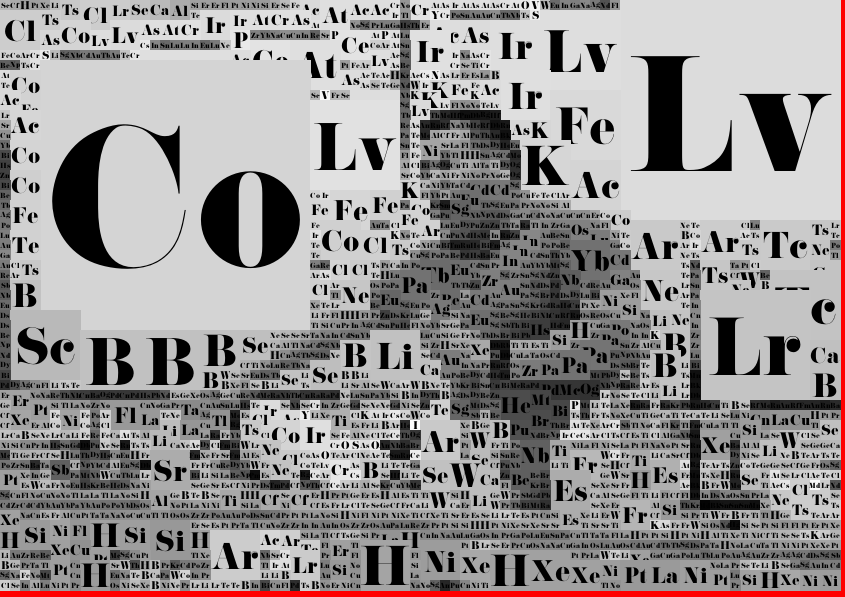
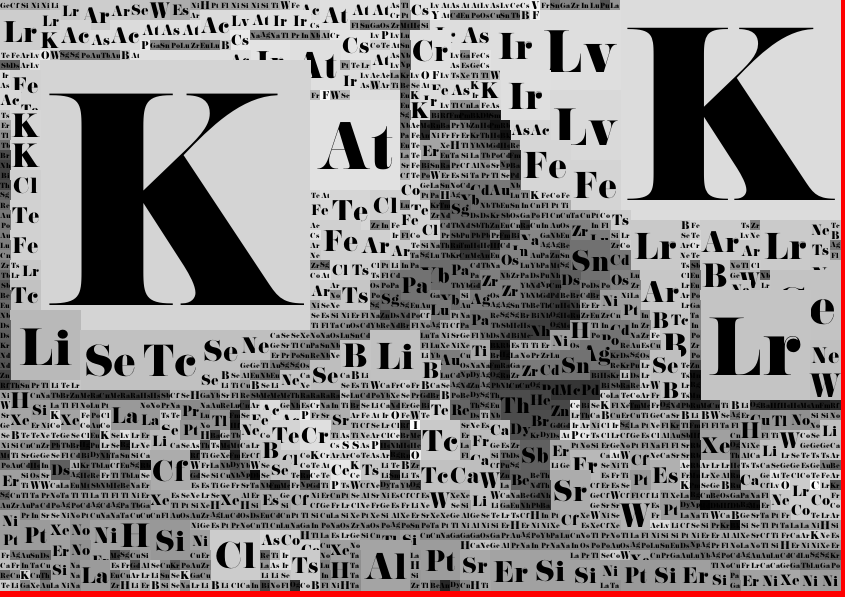
Brute force boxing 2
much better!

Changed region(s): [[0.0, 0.0, 1.0, 0.995], [0.9231, 0.4824, 1.0, 0.5427]]

diff --git a/BoxingBrute2.py b/BoxingBrute2.py
@@ -1,0 +1,182 @@
+from os import path
+import os
+from PIL import Image, ImageDraw,ImageFont
+from random import randint,choice
+
+# ====================================================================================================================================================
+# Define Shits
+
+def current_folder(file_name):
+    d = path.dirname(__file__) if "__file__" in locals() else os.getcwd()
+    return path.join(d, file_name)
+
+with open(current_folder(r'txt\Element_sorted.txt'),"r") as f:
+    Element=f.read().split(',')
+
+def scale(l,v):
+    alter=choice([-2,-1,0,0,1,2])
+    c=len(l)-max(0,min(int((v/255)*len(l))+alter,len(l)))-1
+    return l[c]
+
+class txt():
+    def __init__(self , word:str  , font_path:str , rect:tuple , fill:tuple) :
+        font_size_ref={1:1,2:1.5}
+        self.text=word
+        self.font_path=font_path
+        self.x=None
+        self.y=None
+        self.rect=rect
+        self.font_size=(rect[2]-rect[0])/font_size_ref[len(word)]
+        self.fill=fill
+    def draw(self,scale:int , canvas:ImageDraw, canvas_img:Image , fill:tuple=(-1,-1,-1) , bg:bool=False,rotate:bool=False):
+        #scale
+        font = ImageFont.truetype(self.font_path,self.font_size*ENLARGE)
+        bbox= font.getbbox(self.text)  # Size of text w/font if rendered.
+        txt_width ,txt_height = bbox[2]-bbox[0], bbox[3]-bbox[1]
+        txt_l,txt_u=((scale*(self.rect[0]+self.rect[2])//2)-txt_width//2 , (scale*(self.rect[1]+self.rect[3])//2) - txt_height//2)
+        if(fill[0]==-1): fill=self.fill
+        rect=tuple(map(lambda x:x*scale,self.rect))
+        if(bg):canvas.rectangle(rect,fill=self.fill)
+        canvas.text((txt_l,txt_u), self.text, fill=self.fill,font=font,align="centre")
+
+        if(rotate):
+            rotation=choice([270,0,0,90])
+            tmp = canvas_img.crop (rect)
+            tmp = tmp.rotate (rotation, expand = 1)
+            canvas_img.paste (tmp, (rect[0],rect[1]))
+
+
+# ====================================================================================================================================================
+#Load Shits
+
+img=Image.open(current_folder(r"style\Fin.jpg"))
+imgl=img.convert("L")
+w,h=imgl.size
+
+# ====================================================================================================================================================
+# Here onward, First round of Boxxing(big boxes)
+
+
+pixel_flag=[[True for x in range(w)] for y in range(h)]
+
+ENLARGE=5
+TXT=[]
+
+print(h,w)
+STEP1=10
+LAGRER_FACTOR=0.2
+THRESHOLD1=20
+
+# need to double the scale of canvas !
+for y in range(h):
+    # print("row",y)
+    for x in range(w):
+        if( pixel_flag[y][x]):
+            # overlap problem
+            # The starting block was not flagged, it eats into other boxes
+            mean=imgl.getpixel((x,y))
+            pc=STEP1# pixel count
+            # prevh,prevw,prevd=mean,mean,mean
+            while(y+pc<h and x+pc<w):
+                    pixh=imgl.getpixel((x+pc,y))
+                    pixw=imgl.getpixel((x,y+pc))
+                    pixd=imgl.getpixel((x+pc,y+pc))
+                    if(not pixel_flag[y+pc][x+pc] or not pixel_flag[y][x+pc] or not pixel_flag[y+pc][x]): break
+                    if( abs(pixh-mean)+abs(pixw-mean)+abs(pixd-mean)>=THRESHOLD1+(pc*LAGRER_FACTOR) ):
+                        break
+                    else:
+                        # mean+=pixh+pixw+pixd
+                        pc+=STEP1
+            if(y+pc>=h or x+pc>=w): pc-=STEP1
+            RGBmean=[0,0,0]
+            for a in range(pc):
+                for b in range(pc):
+                    pixel_flag[y+a][x+b]=False
+                    r,g,b=img.getpixel((x+b,y+a))
+                    RGBmean[0]+=r
+                    RGBmean[1]+=g
+                    RGBmean[2]+=b
+
+            if(pc!=0):
+                res=scale(Element,mean)
+                TXT.append(txt(
+                    res,
+                    current_folder(r"txt\Pistilli-Roman.otf"),
+                    (x,y,x+pc,y+pc),
+                    tuple(map(lambda x: x//(pc*pc),RGBmean))
+                ))
+
+canvas_img=Image.new(mode="RGB",size=(w*ENLARGE,h*ENLARGE),color=(255,255,255))
+canvas=ImageDraw.Draw(canvas_img)
+for todo in TXT:
+    todo.draw(ENLARGE,canvas,canvas_img,rotate=True)
+    # print(todo.text)
+
+# canvas_img.show()
+# canvas_img.save(current_folder(r"style\_res2.png"))
+# input("cut")
+print("round 1 done")
+# ====================================================================================================================================================
+# Here onward, Fill empty space
+
+# Second scan based on canvas
+
+pixel_flag=[[True for x in range(w)] for y in range(h)]
+
+TXT2=[]
+
+txt_ref=canvas_img.convert('L').resize((w,h))
+# txt_ref.show()
+STEP2=1
+THRESHOLD2=5 # threshold of box size
+
+def interpolate(x:float):
+    return min(255,x+10)
+
+print("init done")
+# need to double the scale of canvas !
+for y in range(h):
+    if(y%10 ==0):print("row",y)
+    for x in range(w):
+        mean=txt_ref.getpixel((x,y))
+        if( mean==255 and  pixel_flag[y][x]):
+            # overlap problem
+            # The starting block was not flagged, it eats into other boxes
+            pc=STEP2# pixel count
+            # prevh,prevw,prevd=mean,mean,mean
+            while(y+pc<h and x+pc<w):
+                    pixh=txt_ref.getpixel((x+pc,y))
+                    pixw=txt_ref.getpixel((x,y+pc))
+                    pixd=txt_ref.getpixel((x+pc,y+pc))
+                    if( pixh<255 or pixw<255 or pixd<255 or not (pixel_flag[y+pc][x] and pixel_flag[y][x+pc] and pixel_flag[y+pc][x+pc] )):
+                        break
+                    else:
+                        pc+=STEP2
+            if(y+pc>=h or x+pc>=w): pc-=STEP2
+            RGBmean=[0,0,0]
+            for a in range(pc):
+                for b in range(pc):
+                    pixel_flag[y+a][x+b]=False
+                    r,g,b=img.getpixel((x+b,y+a))
+                    RGBmean[0]+=r
+                    RGBmean[1]+=g
+                    RGBmean[2]+=b
+            if(pc>THRESHOLD2):
+                RGBmean=tuple(map(lambda x: interpolate(x//(pc*pc)),RGBmean))
+                res=scale(Element,sum(RGBmean)//3)
+                TXT2.append(txt(
+                    res,
+                    current_folder(r"txt\Pistilli-Roman.otf"),
+                    (x,y,x+pc,y+pc),
+                    RGBmean
+                ))
+
+# canvas_img=Image.new(mode="RGB",size=(w*ENLARGE,h*ENLARGE),color=(0,0,0))
+# canvas=ImageDraw.Draw(canvas_img)
+for todo in TXT2:
+    todo.draw(ENLARGE,canvas,canvas_img)
+    # print(todo.text)
+
+print("show 2")
+# canvas_img.show()
+canvas_img.save(current_folder(r"style\_res3.png"))

diff --git a/README.md b/README.md
@@ -32,3 +32,18 @@ actually it was fine...
 1. colour the blocks with colour from picture!
 
 *Done on 23/7/2024*
+
+## 4. "Boxing" via brute force V2
+I did what i anticipated yesterday.. yet, it looks even shittier that the wordcloud\
+I added some random rotations, it helps
+
+### Issues
+1. still...little details! => \
+My mother suggest *why not just do the protrait of the face? instead of a whole picture?*\
+Yea thats a **great** idea
+2. algrithm can be improved for better looking result
+1. **Maybe can make a wordcloud base on the abundancy of element!?**
+
+Olevel oral tmr, wifi off at 9pm, got ot go\
+p.s. changed some variables to last version, works significantly better\
+*Done on 24/7/2024*
